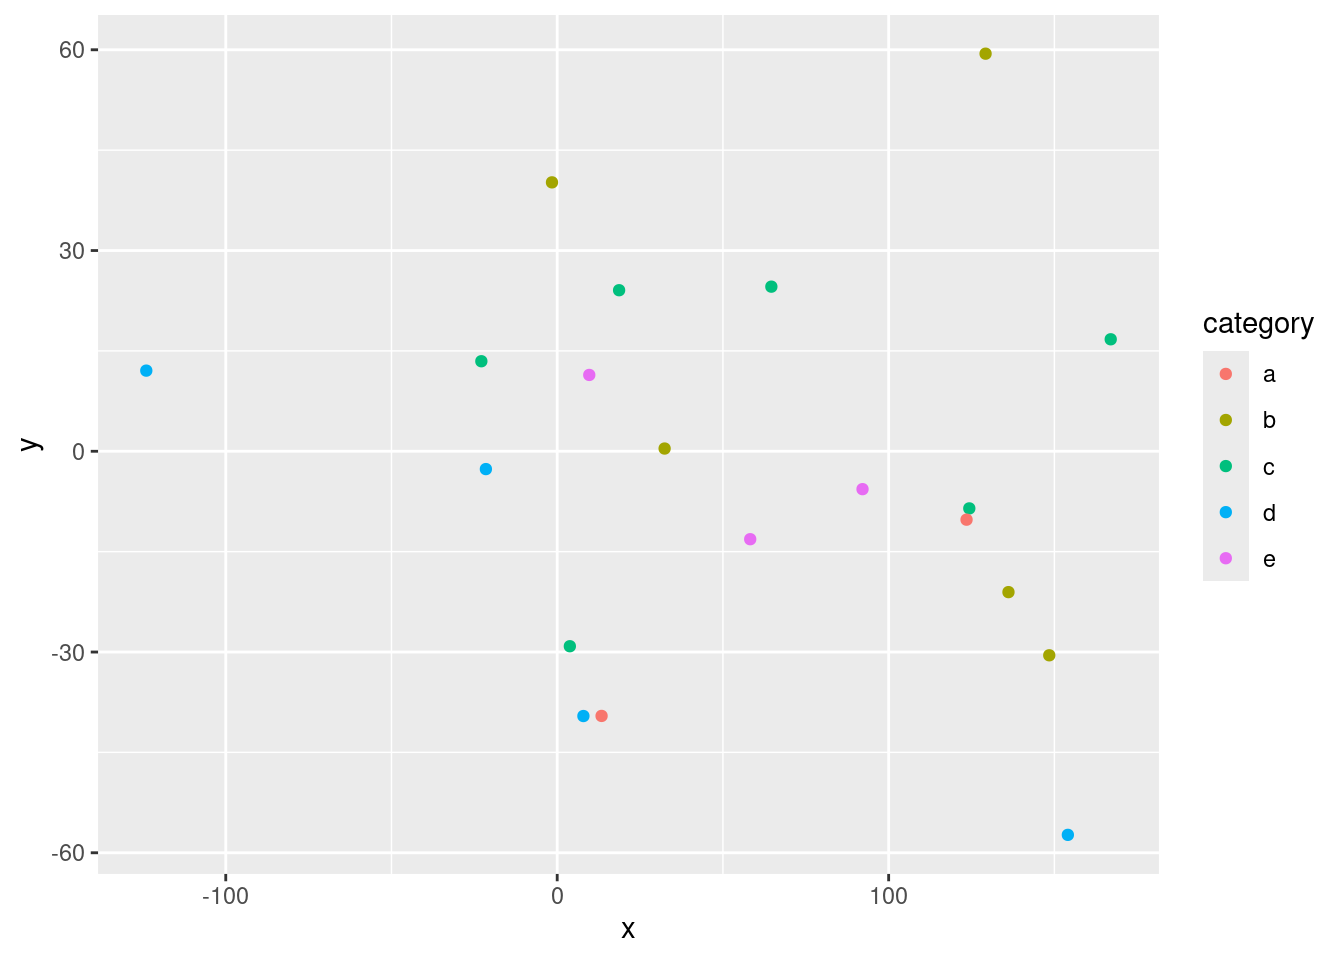
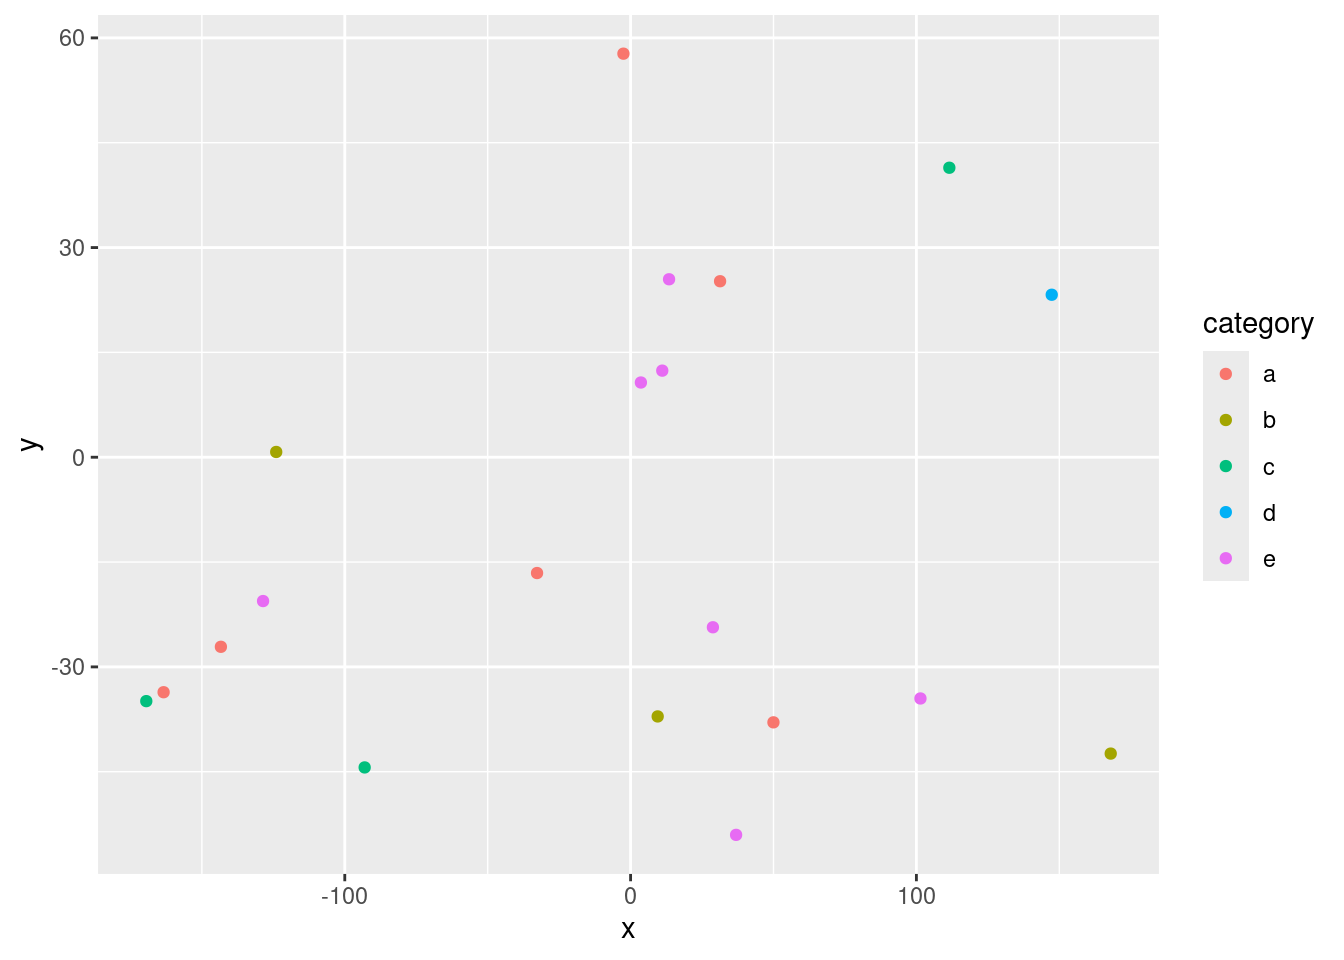
Built site for gh-pages

diff --git a/index.html b/index.html
@@ -199,7 +199,7 @@ pre > code.sourceCode > span > a:first-child::before { text-decoration: underlin
 
 <section id="introduction" class="level1">
 <h1>Introduction</h1>
-<p>stated background and questions / hypotheses / problems being addressed. Sets up the analysis in an interesting and compelling way. Include figures if you like.</p>
+<p>background and questions / hypotheses / problems being addressed. Sets up the analysis in an interesting and compelling way. Include figures if you like.</p>
 </section>
 <section id="materials-and-methods" class="level1">
 <h1>Materials and methods</h1>
@@ -264,74 +264,74 @@ pre > code.sourceCode > span > a:first-child::before { text-decoration: underlin
 </thead>
 <tbody>
 <tr class="odd">
-<td style="text-align: center;">58.23</td>
-<td style="text-align: center;">-13.14</td>
-<td style="text-align: center;">15.44</td>
+<td style="text-align: center;">36.92</td>
+<td style="text-align: center;">-54.04</td>
+<td style="text-align: center;">9.28</td>
 <td style="text-align: center;">e</td>
-<td style="text-align: center;">2.26</td>
+<td style="text-align: center;">-0.78</td>
 </tr>
 <tr class="even">
-<td style="text-align: center;">-21.52</td>
-<td style="text-align: center;">-2.66</td>
-<td style="text-align: center;">14.16</td>
-<td style="text-align: center;">d</td>
-<td style="text-align: center;">1.56</td>
+<td style="text-align: center;">13.46</td>
+<td style="text-align: center;">25.46</td>
+<td style="text-align: center;">19.90</td>
+<td style="text-align: center;">e</td>
+<td style="text-align: center;">0.11</td>
 </tr>
 <tr class="odd">
-<td style="text-align: center;">136.15</td>
-<td style="text-align: center;">-21.05</td>
-<td style="text-align: center;">11.30</td>
+<td style="text-align: center;">101.42</td>
+<td style="text-align: center;">-34.52</td>
+<td style="text-align: center;">10.49</td>
+<td style="text-align: center;">e</td>
+<td style="text-align: center;">-1.02</td>
+</tr>
+<tr class="even">
+<td style="text-align: center;">28.80</td>
+<td style="text-align: center;">-24.33</td>
+<td style="text-align: center;">18.22</td>
+<td style="text-align: center;">e</td>
+<td style="text-align: center;">-0.31</td>
+</tr>
+<tr class="odd">
+<td style="text-align: center;">147.35</td>
+<td style="text-align: center;">23.25</td>
+<td style="text-align: center;">10.13</td>
+<td style="text-align: center;">d</td>
+<td style="text-align: center;">0.37</td>
+</tr>
+<tr class="even">
+<td style="text-align: center;">167.99</td>
+<td style="text-align: center;">-42.41</td>
+<td style="text-align: center;">19.56</td>
 <td style="text-align: center;">b</td>
-<td style="text-align: center;">-0.11</td>
-</tr>
-<tr class="even">
-<td style="text-align: center;">167.00</td>
-<td style="text-align: center;">16.73</td>
-<td style="text-align: center;">17.28</td>
-<td style="text-align: center;">c</td>
-<td style="text-align: center;">-0.42</td>
+<td style="text-align: center;">-2.75</td>
 </tr>
 <tr class="odd">
-<td style="text-align: center;">3.81</td>
-<td style="text-align: center;">-29.14</td>
-<td style="text-align: center;">8.03</td>
-<td style="text-align: center;">c</td>
-<td style="text-align: center;">-0.45</td>
-</tr>
-<tr class="even">
-<td style="text-align: center;">124.33</td>
-<td style="text-align: center;">-8.54</td>
-<td style="text-align: center;">12.83</td>
-<td style="text-align: center;">c</td>
-<td style="text-align: center;">-0.12</td>
-</tr>
-<tr class="odd">
-<td style="text-align: center;">7.91</td>
-<td style="text-align: center;">-39.57</td>
-<td style="text-align: center;">11.95</td>
-<td style="text-align: center;">d</td>
-<td style="text-align: center;">0.17</td>
-</tr>
-<tr class="even">
-<td style="text-align: center;">64.61</td>
-<td style="text-align: center;">24.60</td>
-<td style="text-align: center;">5.74</td>
-<td style="text-align: center;">c</td>
+<td style="text-align: center;">11.09</td>
+<td style="text-align: center;">12.39</td>
+<td style="text-align: center;">17.52</td>
+<td style="text-align: center;">e</td>
 <td style="text-align: center;">1.06</td>
 </tr>
+<tr class="even">
+<td style="text-align: center;">-143.34</td>
+<td style="text-align: center;">-27.13</td>
+<td style="text-align: center;">17.11</td>
+<td style="text-align: center;">a</td>
+<td style="text-align: center;">0.64</td>
+</tr>
 <tr class="odd">
-<td style="text-align: center;">-123.97</td>
-<td style="text-align: center;">12.05</td>
-<td style="text-align: center;">12.79</td>
-<td style="text-align: center;">d</td>
-<td style="text-align: center;">-0.92</td>
+<td style="text-align: center;">-163.39</td>
+<td style="text-align: center;">-33.63</td>
+<td style="text-align: center;">13.28</td>
+<td style="text-align: center;">a</td>
+<td style="text-align: center;">-0.89</td>
 </tr>
 <tr class="even">
-<td style="text-align: center;">-1.57</td>
-<td style="text-align: center;">40.19</td>
-<td style="text-align: center;">9.89</td>
-<td style="text-align: center;">b</td>
-<td style="text-align: center;">-1.19</td>
+<td style="text-align: center;">-169.45</td>
+<td style="text-align: center;">-34.90</td>
+<td style="text-align: center;">9.28</td>
+<td style="text-align: center;">c</td>
+<td style="text-align: center;">-0.64</td>
 </tr>
 </tbody>
 </table>
@@ -352,8 +352,8 @@ pre > code.sourceCode > span > a:first-child::before { text-decoration: underlin
 <span id="cb5-4"><a href="#cb5-4" aria-hidden="true" tabindex="-1"></a>  <span class="fu">addPopups</span>(<span class="sc">~</span>x[<span class="dv">2</span>], <span class="sc">~</span>y[<span class="dv">2</span>], <span class="st">"Random popup"</span>)</span>
 <span id="cb5-5"><a href="#cb5-5" aria-hidden="true" tabindex="-1"></a>m  <span class="co"># a map with the default OSM tile layer</span></span></code><button title="Copy to Clipboard" class="code-copy-button"><i class="bi"></i></button></pre></div>
 <div class="cell-output-display">
-<div class="leaflet html-widget html-fill-item" id="htmlwidget-9f650f3038e855190877" style="width:100%;height:325px;"></div>
-<script type="application/json" data-for="htmlwidget-9f650f3038e855190877">{"x":{"options":{"crs":{"crsClass":"L.CRS.EPSG3857","code":null,"proj4def":null,"projectedBounds":null,"options":{}}},"calls":[{"method":"addTiles","args":["https://{s}.tile.openstreetmap.org/{z}/{x}/{y}.png",null,null,{"minZoom":0,"maxZoom":18,"tileSize":256,"subdomains":"abc","errorTileUrl":"","tms":false,"noWrap":false,"zoomOffset":0,"zoomReverse":false,"opacity":1,"zIndex":1,"detectRetina":false,"attribution":"&copy; <a href=\"https://openstreetmap.org/copyright/\">OpenStreetMap<\/a>,  <a href=\"https://opendatacommons.org/licenses/odbl/\">ODbL<\/a>"}]},{"method":"addCircleMarkers","args":[[-13.14186757430434,-2.664140984416008,-21.05011297389865,16.73372137360275,-29.13582008332014,-8.538004215806723,-39.56797773018479,24.59955378435552,12.0510155428201,40.18587458878756,-30.49050827510655,59.41843575797975,13.45435794442892,-57.3276324570179,24.06767461448908,0.4076717142015696,-39.55139863304794,-10.22396058775485,-5.662199528887868,11.4060977473855],[58.23213687166572,-21.51536987163126,136.1500796768814,166.9993485789746,3.813196811825037,124.3335682991892,7.906175348907709,64.61062235757709,-123.9743245393038,-1.574492482468486,148.4563946072012,129.2442935239524,-22.88622560910881,154.0674718469381,18.67343195714056,32.40766804665327,13.38668282143772,123.5011671110988,92.1164808422327,9.673197297379375],[15.44090658659115,14.1588408278767,11.30283506587148,17.28390771779232,8.034754960099235,12.83325023832731,11.95093305665068,5.744207089301199,12.78630522778258,9.89267717814073,8.31496294005774,14.51435775263235,9.198854023125023,18.94895394099876,7.908755383687094,8.700125070754439,12.14027495472692,18.30084633198567,17.85137811442837,12.4673387024086],null,null,{"interactive":true,"className":"","stroke":true,"color":["e","d","b","c","c","c","d","c","d","b","b","b","c","d","c","b","a","a","e","e"],"weight":5,"opacity":0.5,"fill":true,"fillColor":["e","d","b","c","c","c","d","c","d","b","b","b","c","d","c","b","a","a","e","e"],"fillOpacity":0.2},null,null,null,null,null,{"interactive":false,"permanent":false,"direction":"auto","opacity":1,"offset":[0,0],"textsize":"10px","textOnly":false,"className":"","sticky":true},null]},{"method":"addPopups","args":[-2.664140984416008,-21.51536987163126,"Random popup",null,null,{"maxWidth":300,"minWidth":50,"autoPan":true,"keepInView":false,"closeButton":true,"className":""}]}],"limits":{"lat":[-57.3276324570179,59.41843575797975],"lng":[-123.9743245393038,166.9993485789746]}},"evals":[],"jsHooks":[]}</script>
+<div class="leaflet html-widget html-fill-item" id="htmlwidget-5825081f5f367fc5755e" style="width:100%;height:325px;"></div>
+<script type="application/json" data-for="htmlwidget-5825081f5f367fc5755e">{"x":{"options":{"crs":{"crsClass":"L.CRS.EPSG3857","code":null,"proj4def":null,"projectedBounds":null,"options":{}}},"calls":[{"method":"addTiles","args":["https://{s}.tile.openstreetmap.org/{z}/{x}/{y}.png",null,null,{"minZoom":0,"maxZoom":18,"tileSize":256,"subdomains":"abc","errorTileUrl":"","tms":false,"noWrap":false,"zoomOffset":0,"zoomReverse":false,"opacity":1,"zIndex":1,"detectRetina":false,"attribution":"&copy; <a href=\"https://openstreetmap.org/copyright/\">OpenStreetMap<\/a>,  <a href=\"https://opendatacommons.org/licenses/odbl/\">ODbL<\/a>"}]},{"method":"addCircleMarkers","args":[[-54.03660859912634,25.46047009527683,-34.52071448788047,-24.33257589116693,23.24694598093629,-42.40700374357402,12.38717378117144,-27.1270788833499,-33.62621337175369,-34.9001676030457,-37.09030481055379,41.41910274513066,-20.58107458055019,25.18073818646371,-16.57250851392746,-44.3872476182878,0.7505755964666605,57.74062972515821,-37.93780099600554,10.68900592625141],[36.91733999177814,13.46082771196961,101.4199400693178,28.79953374154866,147.3500246275216,167.9895447101444,11.08550984412432,-143.3449785411358,-163.3900760952383,-169.4472067896277,9.481740966439247,111.5269646421075,-128.5916986595839,31.31180570460856,-32.72732089273632,-93.04274249821901,-123.9879857841879,-2.505130581557751,49.98232251964509,3.608562704175711],[9.277809899067506,19.89828537800349,10.48734077019617,18.21781654027291,10.13119304436259,19.55688109155744,17.51584263052791,17.10724336095154,13.28045011032373,9.276913279900327,13.22517627500929,9.094739333959296,5.643662643851712,5.218411581590772,11.06091797701083,7.218350459588692,18.60555279185064,16.43168706214055,7.802190388320014,18.87373165111057],null,null,{"interactive":true,"className":"","stroke":true,"color":["e","e","e","e","d","b","e","a","a","c","b","c","e","a","a","c","b","a","a","e"],"weight":5,"opacity":0.5,"fill":true,"fillColor":["e","e","e","e","d","b","e","a","a","c","b","c","e","a","a","c","b","a","a","e"],"fillOpacity":0.2},null,null,null,null,null,{"interactive":false,"permanent":false,"direction":"auto","opacity":1,"offset":[0,0],"textsize":"10px","textOnly":false,"className":"","sticky":true},null]},{"method":"addPopups","args":[25.46047009527683,13.46082771196961,"Random popup",null,null,{"maxWidth":300,"minWidth":50,"autoPan":true,"keepInView":false,"closeButton":true,"className":""}]}],"limits":{"lat":[-54.03660859912634,57.74062972515821],"lng":[-169.4472067896277,167.9895447101444]}},"evals":[],"jsHooks":[]}</script>
 <p>Map of completely random data</p>
 </div>
 </div>
@@ -376,8 +376,8 @@ pre > code.sourceCode > span > a:first-child::before { text-decoration: underlin
 <span id="cb7-2"><a href="#cb7-2" aria-hidden="true" tabindex="-1"></a><span class="fu">dygraph</span>(nhtemp, <span class="at">main =</span> <span class="st">"New Haven Temperatures"</span>) <span class="sc">|&gt;</span> </span>
 <span id="cb7-3"><a href="#cb7-3" aria-hidden="true" tabindex="-1"></a>  <span class="fu">dyRangeSelector</span>(<span class="at">dateWindow =</span> <span class="fu">c</span>(<span class="st">"1920-01-01"</span>, <span class="st">"1960-01-01"</span>)) </span></code><button title="Copy to Clipboard" class="code-copy-button"><i class="bi"></i></button></pre></div>
 <div class="cell-output-display">
-<div class="dygraphs html-widget html-fill-item" id="htmlwidget-801dfb9467a559d92b55" style="width:100%;height:464px;"></div>
-<script type="application/json" data-for="htmlwidget-801dfb9467a559d92b55">{"x":{"attrs":{"title":"New Haven Temperatures","labels":["year","V1"],"legend":"auto","retainDateWindow":false,"axes":{"x":{"pixelsPerLabel":60}},"showRangeSelector":true,"dateWindow":["1920-01-01T00:00:00.000Z","1960-01-01T00:00:00.000Z"],"rangeSelectorHeight":40,"rangeSelectorPlotFillColor":" #A7B1C4","rangeSelectorPlotStrokeColor":"#808FAB","interactionModel":"Dygraph.Interaction.defaultModel"},"scale":"yearly","annotations":[],"shadings":[],"events":[],"format":"date","data":[["1912-01-01T00:00:00.000Z","1913-01-01T00:00:00.000Z","1914-01-01T00:00:00.000Z","1915-01-01T00:00:00.000Z","1916-01-01T00:00:00.000Z","1917-01-01T00:00:00.000Z","1918-01-01T00:00:00.000Z","1919-01-01T00:00:00.000Z","1920-01-01T00:00:00.000Z","1921-01-01T00:00:00.000Z","1922-01-01T00:00:00.000Z","1923-01-01T00:00:00.000Z","1924-01-01T00:00:00.000Z","1925-01-01T00:00:00.000Z","1926-01-01T00:00:00.000Z","1927-01-01T00:00:00.000Z","1928-01-01T00:00:00.000Z","1929-01-01T00:00:00.000Z","1930-01-01T00:00:00.000Z","1931-01-01T00:00:00.000Z","1932-01-01T00:00:00.000Z","1933-01-01T00:00:00.000Z","1934-01-01T00:00:00.000Z","1935-01-01T00:00:00.000Z","1936-01-01T00:00:00.000Z","1937-01-01T00:00:00.000Z","1938-01-01T00:00:00.000Z","1939-01-01T00:00:00.000Z","1940-01-01T00:00:00.000Z","1941-01-01T00:00:00.000Z","1942-01-01T00:00:00.000Z","1943-01-01T00:00:00.000Z","1944-01-01T00:00:00.000Z","1945-01-01T00:00:00.000Z","1946-01-01T00:00:00.000Z","1947-01-01T00:00:00.000Z","1948-01-01T00:00:00.000Z","1949-01-01T00:00:00.000Z","1950-01-01T00:00:00.000Z","1951-01-01T00:00:00.000Z","1952-01-01T00:00:00.000Z","1953-01-01T00:00:00.000Z","1954-01-01T00:00:00.000Z","1955-01-01T00:00:00.000Z","1956-01-01T00:00:00.000Z","1957-01-01T00:00:00.000Z","1958-01-01T00:00:00.000Z","1959-01-01T00:00:00.000Z","1960-01-01T00:00:00.000Z","1961-01-01T00:00:00.000Z","1962-01-01T00:00:00.000Z","1963-01-01T00:00:00.000Z","1964-01-01T00:00:00.000Z","1965-01-01T00:00:00.000Z","1966-01-01T00:00:00.000Z","1967-01-01T00:00:00.000Z","1968-01-01T00:00:00.000Z","1969-01-01T00:00:00.000Z","1970-01-01T00:00:00.000Z","1971-01-01T00:00:00.000Z"],[49.9,52.3,49.4,51.1,49.4,47.9,49.8,50.9,49.3,51.9,50.8,49.6,49.3,50.6,48.4,50.7,50.9,50.6,51.5,52.8,51.8,51.1,49.8,50.2,50.4,51.6,51.8,50.9,48.8,51.7,51,50.6,51.7,51.5,52.1,51.3,51,54,51.4,52.7,53.1,54.6,52,52,50.9,52.6,50.2,52.6,51.6,51.9,50.5,50.9,51.7,51.4,51.7,50.8,51.9,51.8,51.9,53]]},"evals":["attrs.interactionModel"],"jsHooks":[]}</script>
+<div class="dygraphs html-widget html-fill-item" id="htmlwidget-867ffd6179d721b7a6e0" style="width:100%;height:464px;"></div>
+<script type="application/json" data-for="htmlwidget-867ffd6179d721b7a6e0">{"x":{"attrs":{"title":"New Haven Temperatures","labels":["year","V1"],"legend":"auto","retainDateWindow":false,"axes":{"x":{"pixelsPerLabel":60}},"showRangeSelector":true,"dateWindow":["1920-01-01T00:00:00.000Z","1960-01-01T00:00:00.000Z"],"rangeSelectorHeight":40,"rangeSelectorPlotFillColor":" #A7B1C4","rangeSelectorPlotStrokeColor":"#808FAB","interactionModel":"Dygraph.Interaction.defaultModel"},"scale":"yearly","annotations":[],"shadings":[],"events":[],"format":"date","data":[["1912-01-01T00:00:00.000Z","1913-01-01T00:00:00.000Z","1914-01-01T00:00:00.000Z","1915-01-01T00:00:00.000Z","1916-01-01T00:00:00.000Z","1917-01-01T00:00:00.000Z","1918-01-01T00:00:00.000Z","1919-01-01T00:00:00.000Z","1920-01-01T00:00:00.000Z","1921-01-01T00:00:00.000Z","1922-01-01T00:00:00.000Z","1923-01-01T00:00:00.000Z","1924-01-01T00:00:00.000Z","1925-01-01T00:00:00.000Z","1926-01-01T00:00:00.000Z","1927-01-01T00:00:00.000Z","1928-01-01T00:00:00.000Z","1929-01-01T00:00:00.000Z","1930-01-01T00:00:00.000Z","1931-01-01T00:00:00.000Z","1932-01-01T00:00:00.000Z","1933-01-01T00:00:00.000Z","1934-01-01T00:00:00.000Z","1935-01-01T00:00:00.000Z","1936-01-01T00:00:00.000Z","1937-01-01T00:00:00.000Z","1938-01-01T00:00:00.000Z","1939-01-01T00:00:00.000Z","1940-01-01T00:00:00.000Z","1941-01-01T00:00:00.000Z","1942-01-01T00:00:00.000Z","1943-01-01T00:00:00.000Z","1944-01-01T00:00:00.000Z","1945-01-01T00:00:00.000Z","1946-01-01T00:00:00.000Z","1947-01-01T00:00:00.000Z","1948-01-01T00:00:00.000Z","1949-01-01T00:00:00.000Z","1950-01-01T00:00:00.000Z","1951-01-01T00:00:00.000Z","1952-01-01T00:00:00.000Z","1953-01-01T00:00:00.000Z","1954-01-01T00:00:00.000Z","1955-01-01T00:00:00.000Z","1956-01-01T00:00:00.000Z","1957-01-01T00:00:00.000Z","1958-01-01T00:00:00.000Z","1959-01-01T00:00:00.000Z","1960-01-01T00:00:00.000Z","1961-01-01T00:00:00.000Z","1962-01-01T00:00:00.000Z","1963-01-01T00:00:00.000Z","1964-01-01T00:00:00.000Z","1965-01-01T00:00:00.000Z","1966-01-01T00:00:00.000Z","1967-01-01T00:00:00.000Z","1968-01-01T00:00:00.000Z","1969-01-01T00:00:00.000Z","1970-01-01T00:00:00.000Z","1971-01-01T00:00:00.000Z"],[49.9,52.3,49.4,51.1,49.4,47.9,49.8,50.9,49.3,51.9,50.8,49.6,49.3,50.6,48.4,50.7,50.9,50.6,51.5,52.8,51.8,51.1,49.8,50.2,50.4,51.6,51.8,50.9,48.8,51.7,51,50.6,51.7,51.5,52.1,51.3,51,54,51.4,52.7,53.1,54.6,52,52,50.9,52.6,50.2,52.6,51.6,51.9,50.5,50.9,51.7,51.4,51.7,50.8,51.9,51.8,51.9,53]]},"evals":["attrs.interactionModel"],"jsHooks":[]}</script>
 </div>
 </div>
 </section>
